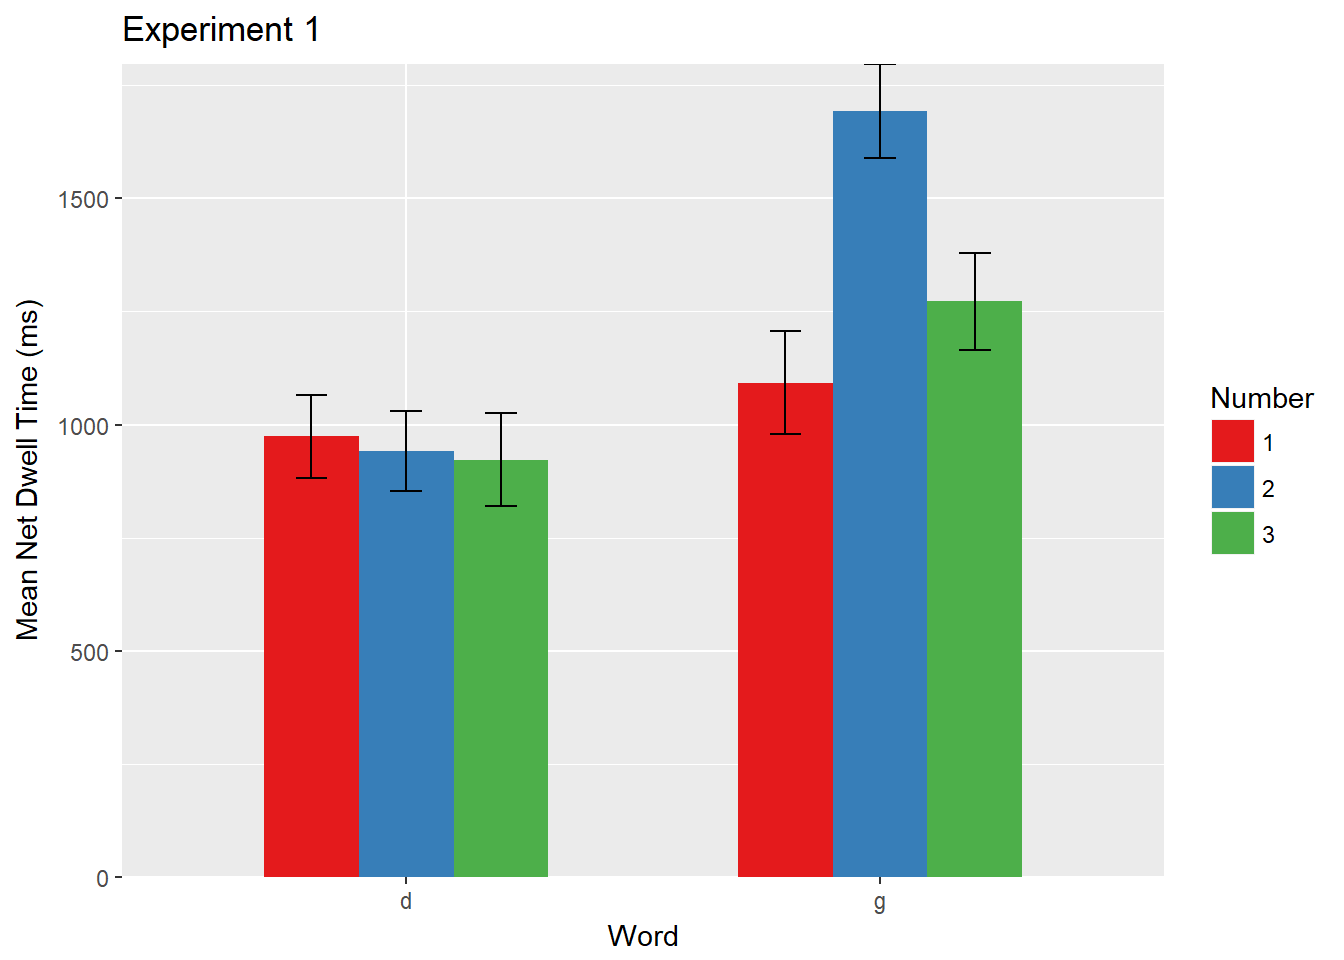
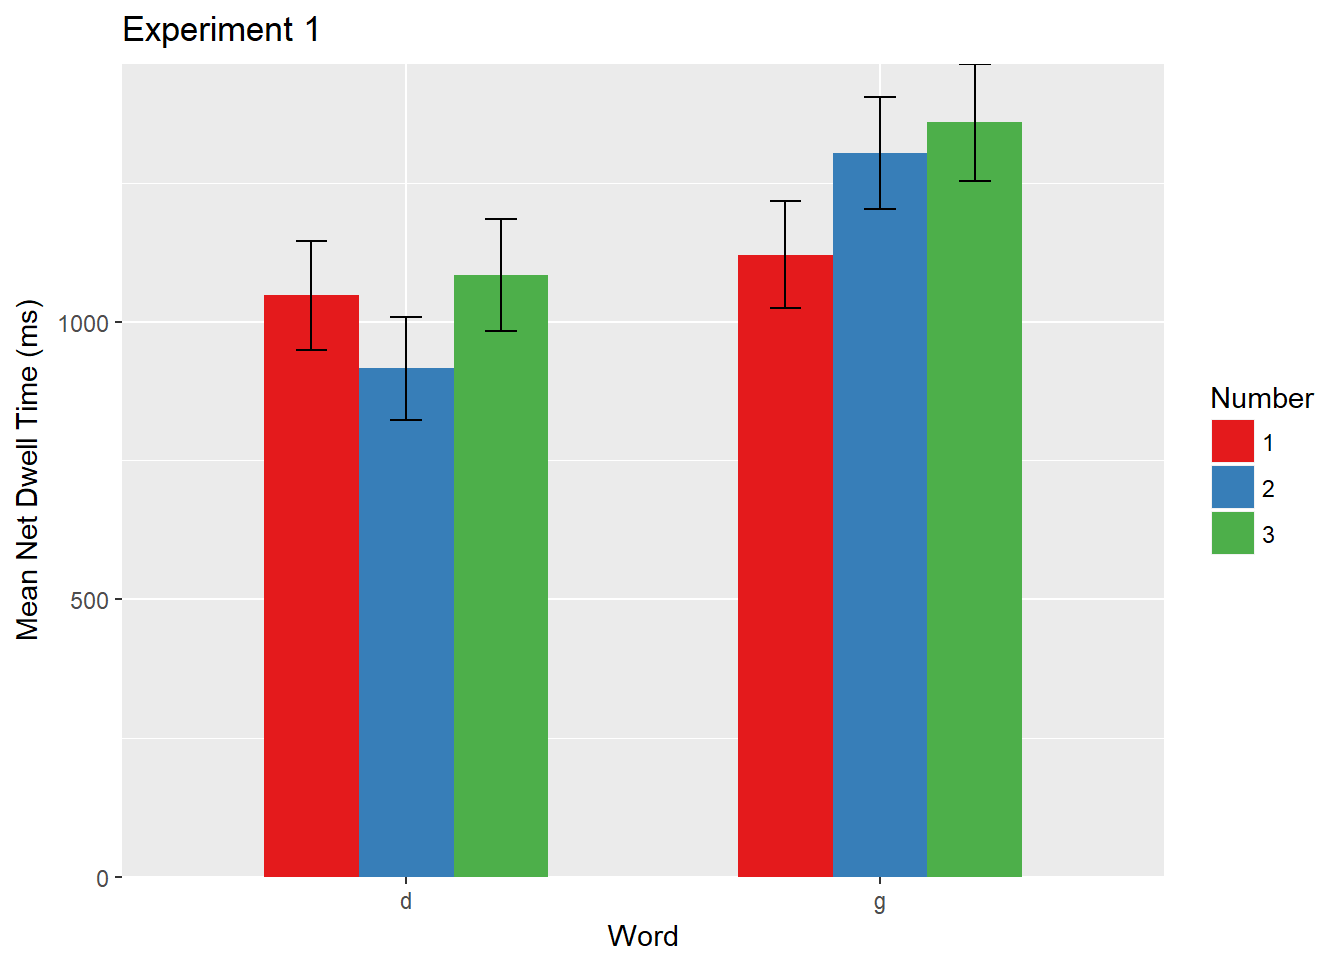
tidyverse 文章第二次修改
根据孟祥良的意见修改了第二次
把作者信息加上

diff --git a/blog/tidyverse-for-eyemovement/index.html b/blog/tidyverse-for-eyemovement/index.html
@@ -114,7 +114,7 @@
 
 <meta itemprop="datePublished" content="2017-12-25T00:00:00&#43;00:00" />
 <meta itemprop="dateModified" content="2017-12-25T00:00:00&#43;00:00" />
-<meta itemprop="wordCount" content="2630">
+<meta itemprop="wordCount" content="2549">
 
 
 
@@ -126,7 +126,7 @@
 <time class="post-time"><span class="icon">
   <i class="fa fa-clock-o" aria-hidden="true"></i>
 </span>
-<span>13 minute read</span>
+<span>12 minute read</span>
 <span class="icon">
  <i class="fa fa-pencil" aria-hidden="true"></i>
 </span>
@@ -138,20 +138,16 @@
 <div id="post-box">
 <div id="post" itemprop="articleBody">
     
-    <p><code>Tidyverse</code> 是由<strong>Hadley Wickham</strong>开发的一系列非常实用的<strong>R</strong>包的合集，涉及到数据导入、转换、清洗以及可视化等数据分析中必不可少的环节。本文的目的在于通过一个简单的眼动数据分析的实例，介绍一下<code>tidyverse</code>的基本知识，并分享一些相关的资料。本文面向的是对<strong>R</strong>有一定的了解，但对<code>tidyverse</code>不是很了解，并且是在<strong>RStudio</strong>中使用<strong>R</strong>的用户。</p>
+    <p><strong>作者：</strong>孟祥良</p>
+<p><code>Tidyverse</code> 是由<strong>Hadley Wickham</strong>开发的一系列非常实用的<strong>R</strong>包的合集，涉及到数据导入、转换、清洗以及可视化等数据分析中必不可少的环节。本文的目的在于通过一个简单的眼动数据分析的实例，介绍一下<code>tidyverse</code>的基本知识，并分享一些相关的资料。本文面向的是对<strong>R</strong>有一定的了解，但对<code>tidyverse</code>不是很了解，并且是在<strong>RStudio</strong>中使用<strong>R</strong>的用户。</p>
 <div id="tidyverse" class="section level2">
 <h2>载入tidyverse</h2>
 <pre class="r"><code>library(tidyverse)</code></pre>
-<pre><code>## Warning: package &#39;tidyverse&#39; was built under R version 3.4.3</code></pre>
 <pre><code>## -- Attaching packages ------------------------------ tidyverse 1.2.1 --</code></pre>
 <pre><code>## √ ggplot2 2.2.1     √ purrr   0.2.4
 ## √ tibble  1.4.2     √ dplyr   0.7.4
 ## √ tidyr   0.8.0     √ stringr 1.2.0
 ## √ readr   1.1.1     √ forcats 0.2.0</code></pre>
-<pre><code>## Warning: package &#39;tibble&#39; was built under R version 3.4.3</code></pre>
-<pre><code>## Warning: package &#39;tidyr&#39; was built under R version 3.4.3</code></pre>
-<pre><code>## Warning: package &#39;purrr&#39; was built under R version 3.4.3</code></pre>
-<pre><code>## Warning: package &#39;dplyr&#39; was built under R version 3.4.3</code></pre>
 <pre><code>## -- Conflicts --------------------------------- tidyverse_conflicts() --
 ## x dplyr::filter() masks stats::filter()
 ## x dplyr::lag()    masks stats::lag()</code></pre>
@@ -242,7 +238,7 @@
 <p>根据<strong>Tidy Data</strong>的第三条原则，我这次分析只选择了总注视时间这一个眼动指标。此外，我还选择了试次编号、被试名、刺激物以及兴趣区四列。在对列进行选择时，要用到<code>dplyr</code>包中的<code>select</code>函数。此时的代码如下：</p>
 <pre class="r"><code>dl &lt;- read_csv(&quot;dl.csv&quot;) %&gt;% 
   select(trial = 1, sub = 2, stimuli = 4, aoi = 5, net_dt = 15)</code></pre>
-<p>在这里，我用到了管道操作符<code>%&gt;%</code>。它的作用是将其左边操作所生成的数据传递到其右边函数的第一个参数位置上（通过某种操作也可传递到其他位置上），其快捷键是<strong>Ctrl+Shift+M</strong>（另外，赋值符<strong>&lt;-</strong>的快捷键是<strong>Alt+-</strong>）。使用管道操作符，可以在保证代码具有条理性的前提之下，减少中间变量的命名（给中间变量起名是一件非常耗时的事情）与重复输入。因为<code>tidyverse</code>包函数中第一个参数位置上一般都是数据名，所以管道操作符可以很好地与<code>tidyverse</code>搭配使用。管道操作符属于<code>magrittr</code>包，但载入<code>tidyverse</code>包会将其自动载入。管道操作符并不是只有这一种，若想进一步了解管道操作符，请看<a href="https://www.datacamp.com/community/tutorials/pipe-r-tutorial">Pipes in R Tutorial For Beginners</a>。另外，<code>pipeR</code>包也提供了一系列管道操作符，非常实用，其作者是之前提到的任坤。</p>
+<p>在这里，我用到了管道操作符<code>%&gt;%</code>。它的作用是将其左边操作所生成的数据传递到其右边函数的第一个参数位置上（通过某种操作也可传递到其他位置上），其快捷键是<strong>Ctrl+Shift+M</strong>（另外，赋值符<strong>&lt;-</strong>的快捷键是<strong>Alt+-</strong>）。使用管道操作符，可以在保证代码具有条理性的前提之下，减少中间变量的命名（给中间变量起名是一件非常耗时的事情）与重复输入。因为<code>tidyverse</code>包函数中第一个参数位置上一般都是数据名，所以管道操作符可以很好地与<code>tidyverse</code>搭配使用。管道操作符属于<code>magrittr</code>包，但载入<code>tidyverse</code>包会将其自动载入。管道操作符并不是只有这一种，若想进一步了解管道操作符，请看<a href="https://www.datacamp.com/community/tutorials/pipe-r-tutorial">Pipes in R Tutorial For Beginners</a>。另外，<code>pipeR</code>包也提供了一系列管道操作符，非常实用，其作者是任坤。</p>
 <p><code>tidyverse</code>有一个原则，即每个函数只做一件事情（忘了在哪里看到的了）。但是<code>select</code>函数就违背了这一原则，因为它至少可以做三件事情。一是对列进行选择，二是对所选择的列进行重命名，三是对所选择的列进行排序。在上面的代码中，我从原始数据中选择了5列，并重新给变量命了名，这时的数据是这样的：</p>
 <pre class="r"><code>dl</code></pre>
 <pre><code>## # A tibble: 13,123 x 5
@@ -475,12 +471,12 @@
 ## # Groups:   number [?]
 ##   number word   mndt    se
 ##   &lt;chr&gt;  &lt;chr&gt; &lt;dbl&gt; &lt;dbl&gt;
-## 1 1      d       974  91.3
-## 2 1      g      1092 113  
-## 3 2      d       941  88.2
-## 4 2      g      1693 104  
-## 5 3      d       922 103  
-## 6 3      g      1272 107</code></pre>
+## 1 1      d      1047  98.7
+## 2 1      g      1120  96.5
+## 3 2      d       916  93.0
+## 4 2      g      1303 101  
+## 5 3      d      1084 101  
+## 6 3      g      1358 106</code></pre>
 <p>接下来我就要在此数据的基础上画出一个直条图来，这个图暂时只包括最基本的三种成分。此时的代码如下：</p>
 <pre class="r"><code>dl %&gt;% group_by(number, word) %&gt;% 
   summarise(mndt = mean(mean_ndt), se = sd(mean_ndt)/sqrt(n())) %&gt;% 
@@ -569,28 +565,24 @@
 <pre><code>## 
 ## Error: factor(sub)
 ##           Df   Sum Sq Mean Sq F value Pr(&gt;F)
-## Residuals 46 45836001  996435               
+## Residuals 46 41768843  908018               
 ## 
 ## Error: factor(sub):factor(number)
-##                Df   Sum Sq Mean Sq F value  Pr(&gt;F)   
-## factor(number)  2  4169177 2084589   5.268 0.00683 **
-## Residuals      92 36408265  395742                   
-## ---
-## Signif. codes:  0 &#39;***&#39; 0.001 &#39;**&#39; 0.01 &#39;*&#39; 0.05 &#39;.&#39; 0.1 &#39; &#39; 1
+##                Df   Sum Sq Mean Sq F value Pr(&gt;F)
+## factor(number)  2  1006076  503038    1.25  0.291
+## Residuals      92 37015181  402339               
 ## 
 ## Error: factor(sub):factor(word)
-##              Df   Sum Sq  Mean Sq F value   Pr(&gt;F)    
-## factor(word)  1 11675795 11675795    36.9 2.24e-07 ***
-## Residuals    46 14554065   316393                     
+##              Df   Sum Sq Mean Sq F value   Pr(&gt;F)    
+## factor(word)  1  4235428 4235428   13.77 0.000557 ***
+## Residuals    46 14152028  307653                     
 ## ---
 ## Signif. codes:  0 &#39;***&#39; 0.001 &#39;**&#39; 0.01 &#39;*&#39; 0.05 &#39;.&#39; 0.1 &#39; &#39; 1
 ## 
 ## Error: factor(sub):factor(number):factor(word)
-##                             Df   Sum Sq Mean Sq F value Pr(&gt;F)   
-## factor(number):factor(word)  2  4827777 2413889   6.018 0.0035 **
-## Residuals                   92 36904397  401135                  
-## ---
-## Signif. codes:  0 &#39;***&#39; 0.001 &#39;**&#39; 0.01 &#39;*&#39; 0.05 &#39;.&#39; 0.1 &#39; &#39; 1</code></pre>
+##                             Df   Sum Sq Mean Sq F value Pr(&gt;F)
+## factor(number):factor(word)  2  1193022  596511   1.554  0.217
+## Residuals                   92 35314630  383855</code></pre>
 <p>在<code>aov</code>函数中，先要把公式写前面，而且在公式中，自变量要改为<strong>factor</strong>（因子型），另外由于这个实验是被试内设计，所以还要通过<code>Error</code>参数指定被试内变量。公式之后的参数是数据名，最后通过管道操作符出将结果传递给<code>summary</code>函数，方差分析的结果就展示了出来。因为数据做了修改，所以就不针对结果进行说明了。</p>
 </div>
 <div class="section level2">
@@ -602,6 +594,9 @@
 <img src="/img/lianggong.jpg" />
 
 </div>
+<p><strong>工作团队：</strong>PsychoR 北方团队</p>
+<p><strong>作者：</strong>孟祥良</p>
+<p><strong>编辑：</strong>夏骁凯</p>
 </div>
 
 
@@ -624,7 +619,7 @@
   
     and tagged <a href="/tags/tidyverse/">Tidyverse</a> and <a href="/tags/%E7%9C%BC%E5%8A%A8/">眼动</a>
   
-  using <span itemprop="wordCount">2630</span> words.
+  using <span itemprop="wordCount">2549</span> words.
 </p>
 
         
